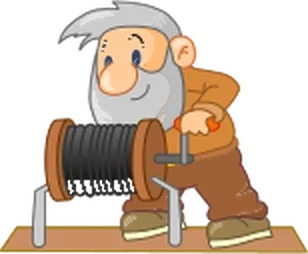
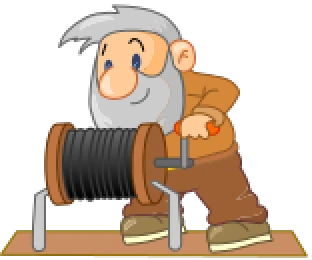
Polish claw art, SWF AABB hitTest, and heavy-pull pant
Replace wrong 3-prong hook with DefineSprite_281 open/grab frames.
Hit test tip (±6.2) against item.ob.box scales from SWF.
Loop miner sprite-238 pull anim and pant SFX when weight>1.

Changed region(s): [[0.0, 0.0, 1.0, 1.0], [0.1169, 0.5787, 0.1461, 0.689], [0.4675, 0.3307, 0.4968, 0.3858]]

diff --git a/game.js b/game.js
@@ -4,7 +4,7 @@
  * Physics/layouts/SFX from original SWF (CWS v6, 550×400 @18fps)
  */
 const W = 550, H = 400, FPS = 18;
-const ASSET_VER = '4';
+const ASSET_VER = '5';
 const canvas = document.getElementById('c');
 const ctx = canvas.getContext('2d');
 
@@ -47,7 +47,6 @@ const PLAY_PACK = [
   ['minerThrow2', 'assets/miner/throw2.webp'],
   ['minerThrow3', 'assets/miner/throw3.webp'],
   ['hookOpen', 'assets/hook/open.webp'],
-  ['hookGrab', 'assets/hook/grab.webp'],
   ['hookClosed', 'assets/hook/closed.webp'],
   ['gold_s', 'assets/items/gold_s.webp'],
   ['gold_m', 'assets/items/gold_m.webp'],
@@ -66,7 +65,15 @@ const PLAY_PACK = [
 const PLAY_PACK_2X = [
   ['playBg', 'assets/ui/play_bg@2x.webp'],
 ];
-const SFX_NAMES = ['level','win','money','click','grab','tick','throw','boom','drop','hit','score'];
+const SFX_NAMES = ['level','win','money','click','grab','tick','throw','boom','drop','hit','score','pant'];
+
+// SWF claw object frames (DefineSprite_281 frame = object id) + miner pull loop (sprite 238)
+for (let o = 2; o <= 14; o++) PLAY_PACK.push(['hookGrab' + o, 'assets/hook/grab_' + o + '.webp']);
+for (let i = 1; i <= 37; i++) {
+  const id = String(i).padStart(2, '0');
+  PLAY_PACK.push(['minerPull' + i, 'assets/miner/pull_frames/' + id + '.webp']);
+}
+
 
 function loadImage(key, url) {
   return new Promise((res, rej) => {
@@ -136,6 +143,29 @@ const PULL_PX_PER_FRAME = 1.385;      // claw Y step on pull timeline
 const BASE_STRENGTH = 10;
 const LEN_MIN = 12.45;
 const LEN_MAX = 407;
+// SWF hitTest: tip PlaceObject(256)=shape40 12.4×12.4 vs item.ob.box (shape40 × scales below)
+const TIP_HALF = 6.2;
+const HOOK_OPEN_NATIVE = { w: 28, h: 18 }; // cropped DefineSprite_281/1
+const HOOK_GRAB_NATIVE = {
+  2:{w:20,h:24},3:{w:32,h:33},4:{w:58,h:57},5:{w:74,h:71},6:{w:32,h:27},7:{w:29,h:30},
+  8:{w:45,h:46},9:{w:22,h:40},10:{w:36,h:28},11:{w:20,h:24},12:{w:37,h:41},13:{w:29,h:31},14:{w:33,h:35}
+};
+// Internal box scales on art sprites (FFDec PlaceObject name=box)
+const ITEM_BOX = {
+  gold_s:   { sx: 2.476, sy: 2.476, ox: 1.05, oy: -1.0 },
+  gold_m:   { sx: 2.476, sy: 2.476, ox: 1.05, oy: -1.0 },
+  gold_l:   { sx: 2.476, sy: 2.476, ox: 1.05, oy: -1.0 },
+  gold_xl:  { sx: 2.476, sy: 2.476, ox: 1.05, oy: -1.0 },
+  rock_m:   { sx: 3.368, sy: 2.781, ox: 4.30, oy: -7.65 },
+  rock_l:   { sx: 2.960, sy: 2.960, ox: 5.85, oy: 10.2 },
+  diamond_s:{ sx: 1.379, sy: 1.379, ox: -0.45, oy: 4.2 },
+  diamond_m:{ sx: 2.032, sy: 2.032, ox: 0.15, oy: -1.0 },
+  bag:      { sx: 3.250, sy: 3.250, ox: -0.45, oy: 1.8 },
+  bone:     { sx: 2.540, sy: 1.355, ox: 3.65, oy: 4.25 },
+  pig:      { sx: 2.032, sy: 2.032, ox: 0.15, oy: -1.0 },
+  skull:    { sx: 2.282, sy: 2.282, ox: 0.55, oy: -0.8 },
+  tnt:      { sx: 4.105, sy: 5.081, ox: 4.95, oy: 10.4 },
+};
 
 const ITEM_DEFS = {
   gold_s:   { object: 2,  price: 50,  weight: 3, r: 10, key: 'gold_s' },
@@ -187,6 +217,8 @@ let throwTimer = 0;
 let boomFx = null; // {x,y,life}
 let dropSfxCool = 0;
 let goalTimer = 0;
+let minerAnim = 1;      // sprite 238 frame 1..37
+let pantCool = 0;
 
 function resetRun() {
   score = 0; level = 1; levelDis = 1;
@@ -256,6 +288,8 @@ function startLevel() {
   minerPose = 'idle';
   throwTimer = 0;
   hintAlpha = 1;
+  minerAnim = 1;
+  pantCool = 0;
   items = [];
   const layout = pickLevelLayout(level);
   if (layout) {
@@ -263,6 +297,7 @@ function startLevel() {
       const def = ITEM_DEFS[spot.key];
       if (!def) continue;
       const sc = (spot.sx + spot.sy) / 2;
+      const box = ITEM_BOX[def.key] || { sx: 2.5, sy: 2.5, ox: 0, oy: 0 };
       items.push({
         x: spot.x, y: spot.y,
         r: def.r * sc,
@@ -270,6 +305,11 @@ function startLevel() {
         key: def.key, def,
         price: priceOf(def), weight: weightOf(def),
         alive: true, object: def.object,
+        // Flash AABB half-extents of .ob.box in stage px
+        boxHx: TIP_HALF * box.sx * spot.sx,
+        boxHy: TIP_HALF * box.sy * spot.sy,
+        boxOx: box.ox * spot.sx,
+        boxOy: box.oy * spot.sy,
       });
     }
   }
@@ -320,7 +360,9 @@ function grabItem(it) {
   claw.stickBonus = (it.weight === -1) ? 1 : 0;
   if (it.weight === -1) claw.weight = 0;
   it.alive = false;
-  minerPose = 'up';
+  minerPose = 'pull';
+  minerAnim = 1;
+  pantCool = 0;
   playSfx('hit', 0.5);
   playSfx('grab', 0.35);
 }
@@ -437,11 +479,14 @@ function logicStep() {
       claw.stickBonus = 1; // empty return is fast (SWF stickBonus path)
       minerPose = 'up';
     } else {
-      // hitTest tip vs item body (SWF: claw.box hitTests T.ob.box)
+      // SWF: tip (shape40 ±6.2) hitTest item.ob.box AABB
       for (const it of items) {
         if (!it.alive) continue;
-        const hr = Math.max(6, it.r * 0.62);
-        if (Math.hypot(it.x - tip.x, it.y - tip.y) < hr) {
+        const cx = it.x + (it.boxOx || 0);
+        const cy = it.y + (it.boxOy || 0);
+        const hx = it.boxHx || Math.max(8, it.r * 0.7);
+        const hy = it.boxHy || Math.max(8, it.r * 0.7);
+        if (Math.abs(tip.x - cx) <= TIP_HALF + hx && Math.abs(tip.y - cy) <= TIP_HALF + hy) {
           grabItem(it);
           break;
         }
@@ -457,9 +502,25 @@ function logicStep() {
       claw.caught.x = tip.x;
       claw.caught.y = tip.y + Math.max(6, claw.caught.r * 0.25);
     }
-    if (minerPose !== 'throw') minerPose = (claw.caught && (claw.weight || 0) >= 7) ? 'pull' : 'up';
+    // SWF miner.gotoAndStop("up") → nested sprite 238 loops at 18fps
+    if (minerPose !== 'throw') {
+      minerPose = 'pull';
+      minerAnim = (minerAnim % 37) + 1;
+    }
+    // Heavy pull (weight>1 and not fast path): pant like original effort
+    const heavy = claw.caught && !claw.stickBonus && !strengthFlag && (claw.weight || 0) > 1;
+    if (heavy) {
+      pantCool -= dt;
+      if (pantCool <= 0) {
+        playSfx('pant', 0.42);
+        pantCool = 0.70;
+      }
+    } else {
+      pantCool = 0;
+    }
     if (claw.len <= LEN_MIN) {
       claw.len = LEN_MIN;
+      pantCool = 0;
       finishPull();
       if (timeLeft <= 0) endLevel();
     }
@@ -553,68 +614,81 @@ function drawHUD() {
 }
 
 function drawMiner() {
-  let key = 'minerIdle';
-  if (minerPose === 'down') key = 'minerDown';
-  else if (minerPose === 'up') key = 'minerUp';
-  else if (minerPose === 'pull') key = 'minerPull';
+  let im = images.minerIdle;
+  if (minerPose === 'down') im = images.minerDown || im;
   else if (minerPose === 'throw') {
     const t = throwTimer;
-    key = t > 0.3 ? 'minerThrow1' : t > 0.15 ? 'minerThrow2' : 'minerThrow3';
+    const key = t > 0.3 ? 'minerThrow1' : t > 0.15 ? 'minerThrow2' : 'minerThrow3';
+    im = images[key] || im;
+  } else if (minerPose === 'pull' || minerPose === 'up') {
+    im = images['minerPull' + minerAnim] || images.minerPull || images.minerUp || im;
   }
-  const im = images[key] || images.minerIdle || images.minerPull;
   if (!im) return;
-  // SWF miner placed at scale ~0.389 of 166×150 ≈ 64×58, but art looks larger in practice
-  const mw = 96;
+  // SWF: miner scale 0.389 of ~166×150 → ~65×58; slightly larger for readability
+  const mw = 72;
   const mh = mw * im.height / im.width;
-  ctx.drawImage(im, MINER_POS.x - mw / 2, 6, mw, mh);
+  ctx.drawImage(im, MINER_POS.x - mw / 2, 4, mw, mh);
 }
 
 function drawClaw() {
   const tip = clawTip();
-  // rope
+  // rope to claw hinge (SWF tip/claw registration ≈ rope end)
   ctx.strokeStyle = '#1a1a1a';
-  ctx.lineWidth = 2.2;
+  ctx.lineWidth = 1.6;
   ctx.lineCap = 'round';
   ctx.beginPath();
   ctx.moveTo(PIVOT.x, PIVOT.y);
   ctx.lineTo(tip.x, tip.y);
   ctx.stroke();
-  // thin highlight
-  ctx.strokeStyle = 'rgba(255,255,255,0.25)';
-  ctx.lineWidth = 0.8;
+  ctx.strokeStyle = 'rgba(255,255,255,0.22)';
+  ctx.lineWidth = 0.7;
   ctx.beginPath();
-  ctx.moveTo(PIVOT.x + 0.6, PIVOT.y);
-  ctx.lineTo(tip.x + 0.6, tip.y);
+  ctx.moveTo(PIVOT.x + 0.5, PIVOT.y);
+  ctx.lineTo(tip.x + 0.5, tip.y);
   ctx.stroke();
 
-  // hook sprite
+  // Original claw: DefineSprite_281 — open frame1, grabbed = gotoAndStop(object)
   let hk = images.hookOpen;
-  if (claw.state === 'pull' && claw.caught) hk = images.hookGrab || images.hookClosed;
-  else if (claw.state === 'pull') hk = images.hookClosed || images.hookGrab;
-  else if (claw.state === 'drop') hk = images.hookOpen;
+  let nw = HOOK_OPEN_NATIVE.w, nh = HOOK_OPEN_NATIVE.h;
+  let drewGrab = false;
+  if (claw.state === 'pull' && claw.caught) {
+    const oid = claw.caught.object;
+    const grab = images['hookGrab' + oid];
+    if (grab) {
+      hk = grab;
+      const nat = HOOK_GRAB_NATIVE[oid] || HOOK_OPEN_NATIVE;
+      nw = nat.w; nh = nat.h;
+      drewGrab = true;
+    } else {
+      hk = images.hookClosed || images.hookOpen;
+    }
+  } else if (claw.state === 'pull') {
+    hk = images.hookClosed || images.hookOpen;
+  }
+
   ctx.save();
   ctx.translate(tip.x, tip.y);
   ctx.rotate(claw.angleDeg * Math.PI / 180);
   if (hk) {
-    const s = 42;
-    ctx.drawImage(hk, -s / 2, -6, s, s);
+    // hinge at top-center (rope end); native SWF pixel size
+    ctx.drawImage(hk, -nw / 2, 0, nw, nh);
   } else {
-    ctx.strokeStyle = '#c8ccd0';
+    ctx.strokeStyle = '#9aa0a6';
     ctx.lineWidth = 2;
     ctx.beginPath();
-    ctx.moveTo(-7, 2); ctx.quadraticCurveTo(-12, 16, -2, 18);
-    ctx.moveTo(0, 2); ctx.lineTo(0, 18);
-    ctx.moveTo(7, 2); ctx.quadraticCurveTo(12, 16, 2, 18);
+    ctx.moveTo(-8, 1); ctx.quadraticCurveTo(-11, 12, -3, 14);
+    ctx.moveTo(8, 1); ctx.quadraticCurveTo(11, 12, 3, 14);
     ctx.stroke();
   }
   ctx.restore();
 
-  if (claw.caught) {
+  // Fallback: draw item under claw if no composite grab frame
+  if (claw.caught && !drewGrab) {
     const it = claw.caught;
     const im = images[it.key];
     if (im) {
       const s = it.r * 2.15;
-      ctx.drawImage(im, tip.x - s / 2, tip.y + 2, s, s * im.height / im.width);
+      ctx.drawImage(im, tip.x - s / 2, tip.y + 4, s, s * im.height / im.width);
     }
   }
 

diff --git a/FINDINGS.md b/FINDINGS.md
@@ -19,3 +19,8 @@
 - `swf/mainload.swf`, `swf/as3.swf` — 4399 loader shells
 - `ffdec-export/` — FFDec script/shape/sprite/sound export
 - `refs/ruffle_*.png` — Ruffle title screenshots
+
+## Polish 2026-10-10 (claw / hit / pant)
+- Claw art: DefineSprite_281 open + object grab frames (native ~28×18 open)
+- HitTest: tip AABB ±6.2 vs item.ob.box (shape40 × FFDec scales × place sx/sy)
+- Miner pull: sprite 238 frame loop; pant.mp3 when weight>1 and slow pull
